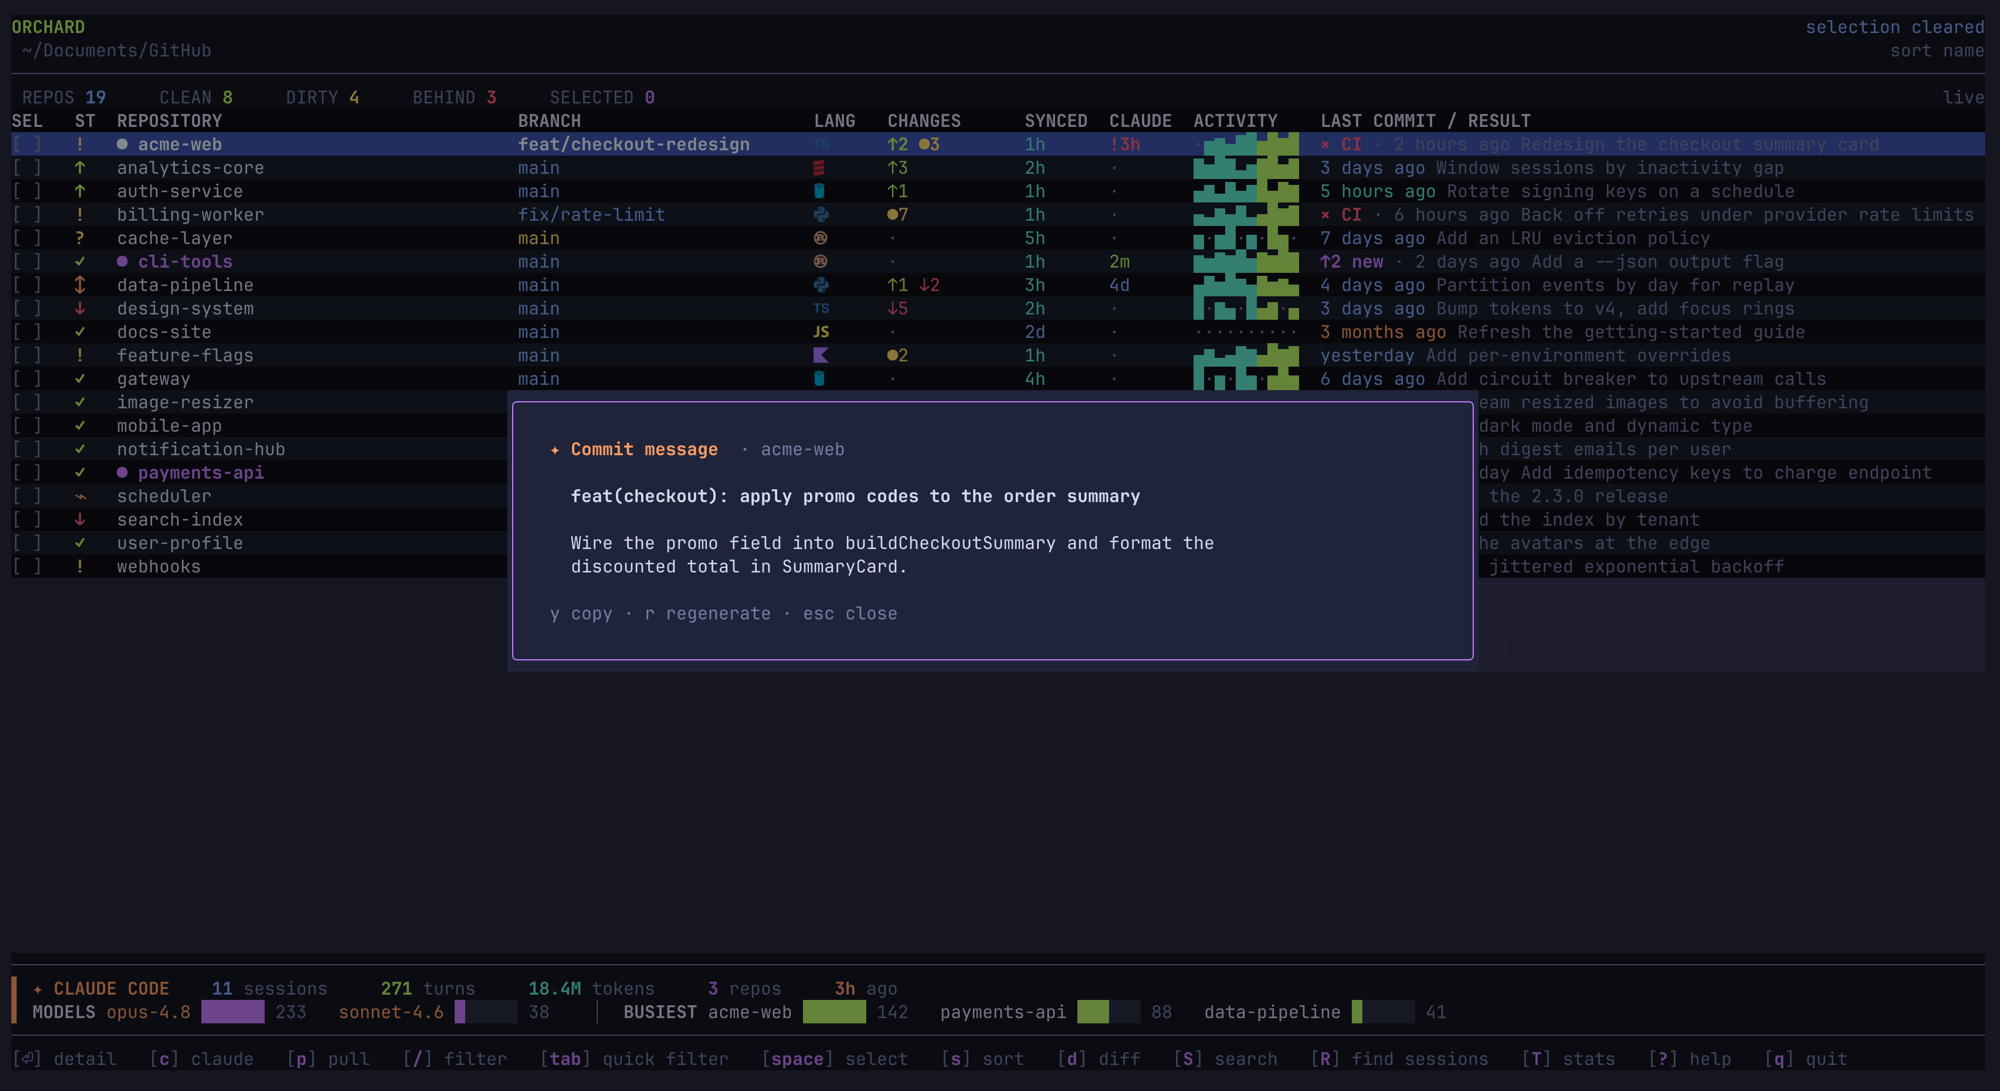
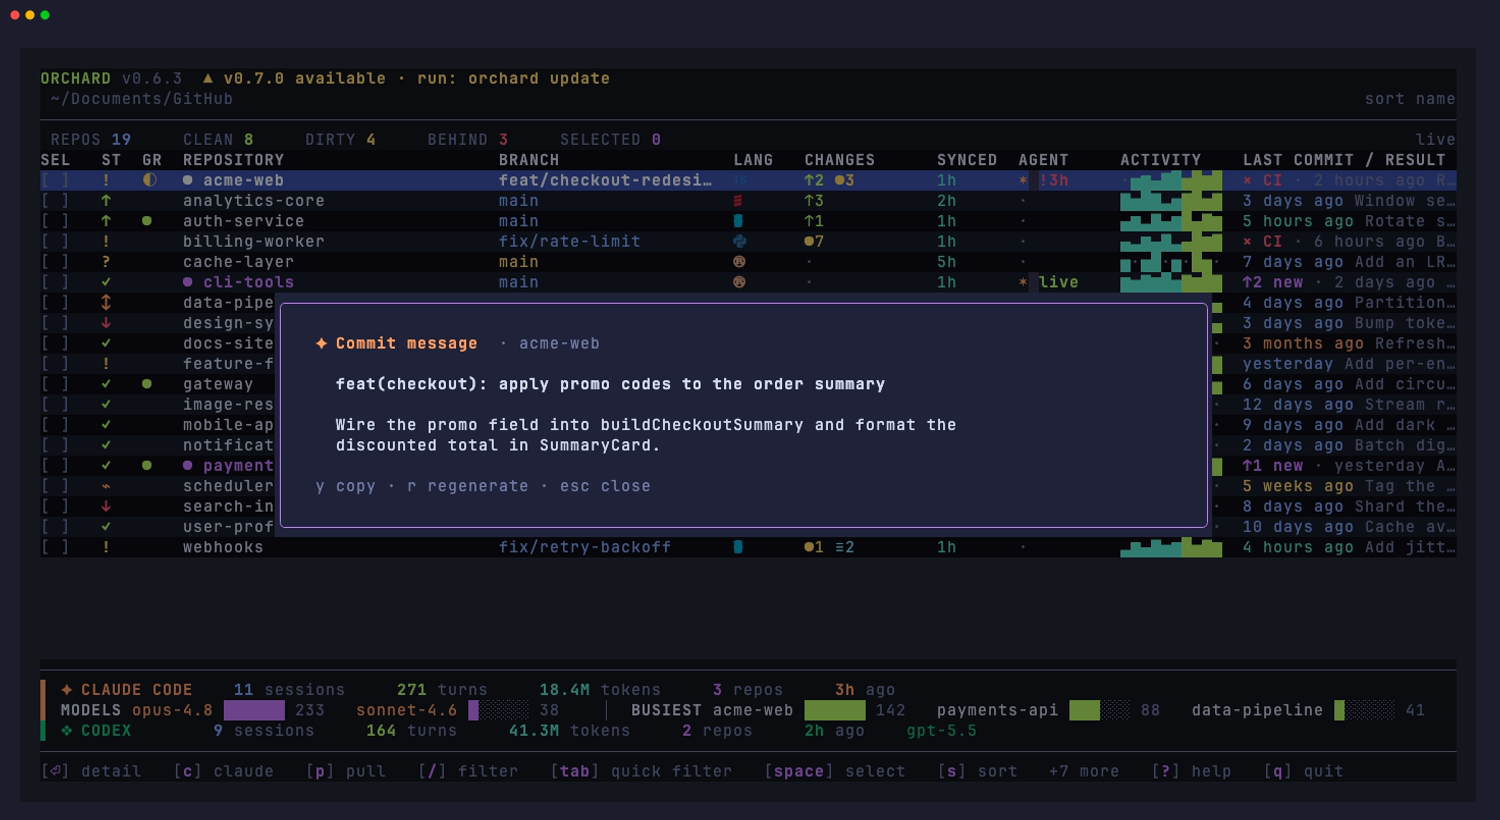
docs: refresh static screenshots and document the remaining env vars
The four README screenshots predated the AGENT column, the code-graph section,
and the Codex footprint; re-capture them in demo mode via a new VHS tape
(docs/screenshots.tape) so they are reproducible. Document ORCHARD_AI_CMD,
ORCHARD_IDLE_SECS, ORCHARD_TERMINAL_CMD, ORCHARD_DEMO, and NO_COLOR.

diff --git a/README.md b/README.md
@@ -285,6 +285,7 @@ The `orchard config` **command** doesn't change anything: it prints the resolved
 
 - `ORCHARD_ROOT` - default repo folder.
 - `ORCHARD_CONFIG` - explicit config file path.
+- `ORCHARD_AI_CMD` - explicit agent command for the agent keys (otherwise the first of `claude` / `codex` on `PATH`).
 - `GITHUB_TOKEN` - token for `orchard clone` (falls back to `gh auth token`).
 - `ORCHARD_ADDDIR_MEMORY` - set to `0` to stop a cross-repo Claude session (`A`) from loading the added repos' `CLAUDE.md` (on by default).
 - `ORCHARD_GRAPH_MCP` - set to `0` to disable automatic graph MCP wiring when launching an agent.
@@ -293,6 +294,10 @@ The `orchard config` **command** doesn't change anything: it prints the resolved
 - `ORCHARD_NO_MOUSE` - set to `1` to disable mouse capture (so your terminal's native text selection works).
 - `ORCHARD_FETCH_SECS` - while live refresh is on, how often (seconds) to fetch remotes in the background so ahead/behind stay current. Default `300` (5 min); `0` disables background fetching (fetch on demand with `f` / `F`).
 - `ORCHARD_NO_ANIM` - set to `1` to turn off motion (the launch intro, the row cascade, the count-up, and the "just tended" row pulse).
+- `ORCHARD_IDLE_SECS` - seconds of idle before the petal screensaver wakes (default `600`; `0` disables; `Z` starts it on demand).
+- `ORCHARD_TERMINAL_CMD` - custom new-tab launch template when your terminal is not auto-detected.
+- `ORCHARD_DEMO` - set to `1` to render fictional demo data (for clean screenshots and recordings).
+- `NO_COLOR` - disable colored CLI output ([no-color.org](https://no-color.org)).
 
 ### Advanced config file
 
